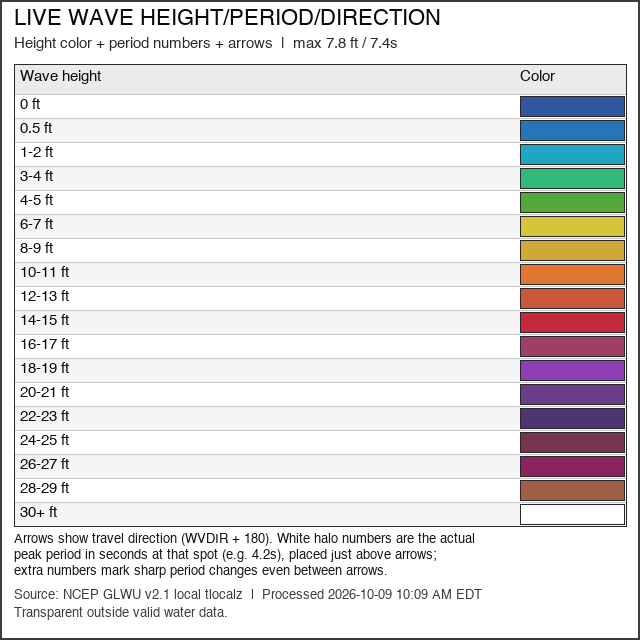
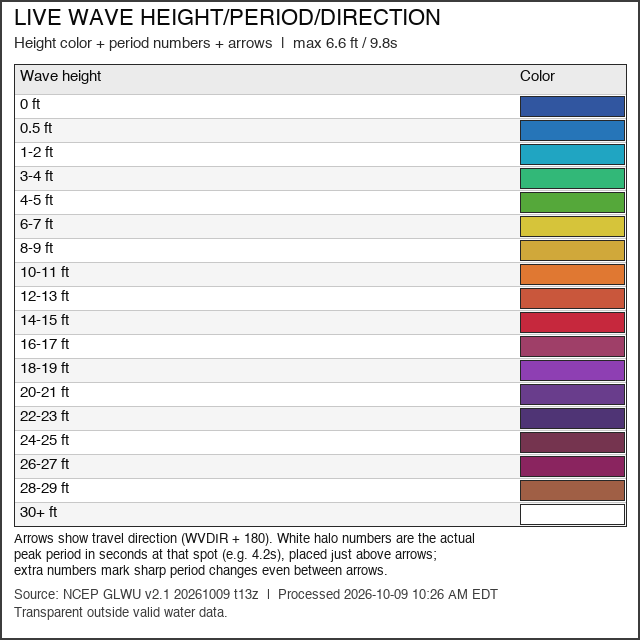
Wave combined: smaller denser period labels, hourly workflow job + validation

Changed region(s): [[0.2812, 0.9062, 0.7812, 0.9375], [0.5625, 0.0625, 0.625, 0.0938], [0.5, 0.0625, 0.5312, 0.0938]]

diff --git a/scripts/build_wave_combined.py b/scripts/build_wave_combined.py
@@ -234,6 +234,13 @@ def paint_period_labels(rgba, period_field, arrow_positions,
             return False
         if _collides(x, y, x + tw, y + th):
             return False
+        # whole glyph must sit on water: center + top corners opaque,
+        # else shoreline alpha-clip would slice the text (e.g. ".2s").
+        pts = [(cx, cy), (x + 2, y + 2), (x + tw - 2, y + 2)]
+        for px, py in pts:
+            ix, iy = int(np.clip(round(px), 0, W - 1)), int(np.clip(round(py), 0, H - 1))
+            if rgba[iy, ix, 3] == 0:
+                return False
         if rgba[int(np.clip(cy, 0, H - 1)), int(np.clip(cx, 0, W - 1)), 3] == 0:
             return False
         if not np.isfinite(period_field[int(np.clip(cy, 0, H - 1)),
@@ -438,14 +445,17 @@ def main():
         ap.add_argument("--local-file", default=None,
                         help="use a cached GRIB2 instead of downloading "
                              "(e.g. output/raw/glwu_current.grib2)")
-        ap.add_argument("--label-every", type=int, default=3,
-                        help="label every Nth arrow (default 3)")
-        ap.add_argument("--extra-step", type=int, default=48)
-        ap.add_argument("--extra-thresh", type=float, default=0.6,
+        ap.add_argument("--label-every", type=int, default=2,
+                        help="label every Nth arrow (default 2)")
+        ap.add_argument("--extra-step", type=int, default=32)
+        ap.add_argument("--extra-thresh", type=float, default=0.5,
                         help="period-change threshold (s) for extra labels")
+        ap.add_argument("--font-size", type=int, default=10,
+                        help="period label font size px (default 10)")
         args = ap.parse_args()
         return run(local_file=args.local_file, label_every=args.label_every,
-                   extra_step=args.extra_step, extra_thresh=args.extra_thresh)
+                   extra_step=args.extra_step, extra_thresh=args.extra_thresh,
+                   font_size=args.font_size)
     except SystemExit as e:
         raise
     except Exception:
@@ -453,7 +463,8 @@ def main():
         return 1
 
 
-def run(local_file=None, label_every=3, extra_step=48, extra_thresh=0.6):
+def run(local_file=None, label_every=2, extra_step=32, extra_thresh=0.5,
+        font_size=10):
     now = datetime.now(timezone.utc)
     raw_path = os.path.join(RAW_DIR, "glwu_combined_current.grib2")
     used_url, datestr, cycle, stamp = None, None, None, None
@@ -463,7 +474,8 @@ def run(local_file=None, label_every=3, extra_step=48, extra_thresh=0.6):
             print(f"[{PRODUCT}] local file missing: {local_file}")
             return 2
         import shutil
-        shutil.copyfile(local_file, raw_path)
+        if os.path.abspath(local_file) != os.path.abspath(raw_path):
+            shutil.copyfile(local_file, raw_path)
         used_url = f"local:{local_file}"
         datestr, cycle, stamp = "local", "local", "0000000000"
         source_id = source_token(f"local-{os.path.getsize(raw_path)}")
@@ -495,7 +507,7 @@ def run(local_file=None, label_every=3, extra_step=48, extra_thresh=0.6):
 
     try:
         return _build(raw_path, used_url, datestr, cycle, source_id,
-                      label_every, extra_step, extra_thresh)
+                      label_every, extra_step, extra_thresh, font_size)
     except Exception as e:
         traceback.print_exc()
         print(f"[{PRODUCT}] VALIDATION FAILED: {type(e).__name__}: {e}. "
@@ -504,7 +516,7 @@ def run(local_file=None, label_every=3, extra_step=48, extra_thresh=0.6):
 
 
 def _build(raw_path, used_url, datestr, cycle, source_id,
-           label_every, extra_step, extra_thresh):
+           label_every, extra_step, extra_thresh, font_size=10):
     stage = stage_dir(PRODUCT)
     stage_prod = os.path.join(stage, "site", PRODUCT)
     bounds = load_bounds()
@@ -565,7 +577,8 @@ def _build(raw_path, used_url, datestr, cycle, source_id,
     # labels: actual period values, same arrow style, above arrows + extras
     rgba, n_lab, n_extra = paint_period_labels(
         rgba, p_water, arrow_pos, label_every=label_every,
-        extra_step=extra_step, extra_thresh_s=extra_thresh)
+        extra_step=extra_step, extra_thresh_s=extra_thresh,
+        font_size=font_size)
 
     # arrows near shore can spill 1-2 px onto land: clip alpha back
     rgba[:, :, 3] = np.round(

diff --git a/scripts/validate_outputs.py b/scripts/validate_outputs.py
@@ -63,6 +63,8 @@ PRODUCTS = {
                          "max_opaque_min": 10_000},
     "wave_direction": {"kml": "Great_Lakes_Live_Wave_Direction.kml",
                        "max_opaque_min": 10_000},
+    "wave_combined": {"kml": "Great_Lakes_Live_Waves_Combined.kml",
+                      "max_opaque_min": 10_000},
     "surface_currents": {"kml": "Great_Lakes_Live_Surface_Currents.kml",
                          "max_opaque_min": 10_000},
     "aurora": {"kml": "Great_Lakes_Live_Ovation_Aurora_Forecast.kml",
@@ -256,7 +258,7 @@ def main():
             lo, hi = meta.get("color_scale_min"), meta.get("color_scale_max")
             if product == "ice_coverage" and (lo, hi) != (0.0, 100.0):
                 failures.append(f"{product}: ice scale must be 0-100, got {lo}-{hi}")
-            if product == "wave_height" and not (0 <= lo < hi <= 30):
+            if product in ("wave_height", "wave_combined") and not (0 <= lo < hi <= 30):
                 failures.append(f"{product}: wave scale out of bounds {lo}-{hi}")
             if product == "water_temperature" and not (20 <= lo < hi <= 95):
                 failures.append(f"{product}: temp scale out of bounds {lo}-{hi}")
